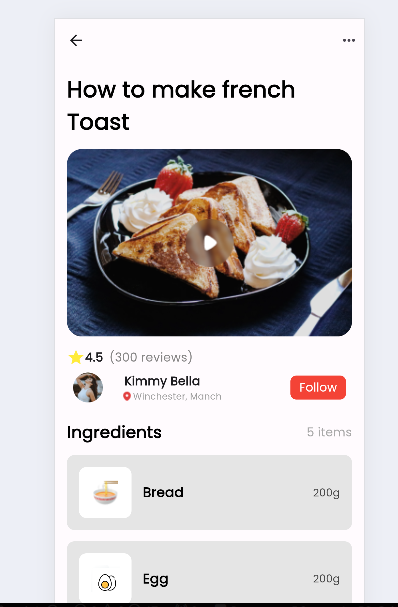
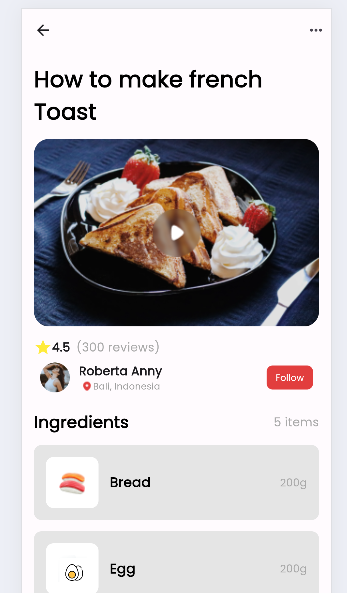
Changed the screenshot of the project

diff --git a/lib/classes/author_details.dart b/lib/classes/author_details.dart
@@ -29,6 +29,10 @@ class AuthorDetailsSection extends StatelessWidget {
                         fit: BoxFit.cover,
                       ),
                       ),
+
+          const SizedBox(
+             width: 12,
+              ),
                
           Column(
             
@@ -41,9 +45,7 @@ class AuthorDetailsSection extends StatelessWidget {
                     ),
                 ),
       
-                 Padding(
-                   padding: const EdgeInsets.only(left:32.0),
-                   child: Row (children: [
+                Row (children: [
                        Image.asset(
                         imageLocation,
                         // width: 20,
@@ -64,7 +66,7 @@ class AuthorDetailsSection extends StatelessWidget {
                     ],
                     
                     ),
-                 ),
+                 
       
               ],
           
@@ -85,7 +87,7 @@ class AuthorDetailsSection extends StatelessWidget {
             "Follow",
             style: TextStyle(
               color: Colors.white,
-              fontSize: 16,
+              fontSize: 12,
             ),
           ),
        ),

diff --git a/lib/main.dart b/lib/main.dart
@@ -49,16 +49,23 @@ class MyApp extends StatelessWidget {
                       image: "assets/images/mainimage.png",
                       playImage: "assets/images/Playbutton.png",
                     ),
-                            
+                     SizedBox(
+                        height: 12,
+                      ),       
                             
                     RatingSection(
                       rating: 4.5,
                       review: "(300 reviews)",
                     ),
+
+                    SizedBox(
+                        height: 10,
+                      ),
+                      
                     AuthorDetailsSection(
                       image: "assets/images/user.png",
-                      name: "Kimmy Bella",
-                      location: "Winchester, Manch",
+                      name: "Roberta Anny",
+                      location: "Bali, Indonesia",
                       imageLocation: "assets/images/Location.png",
                       ),
                     
